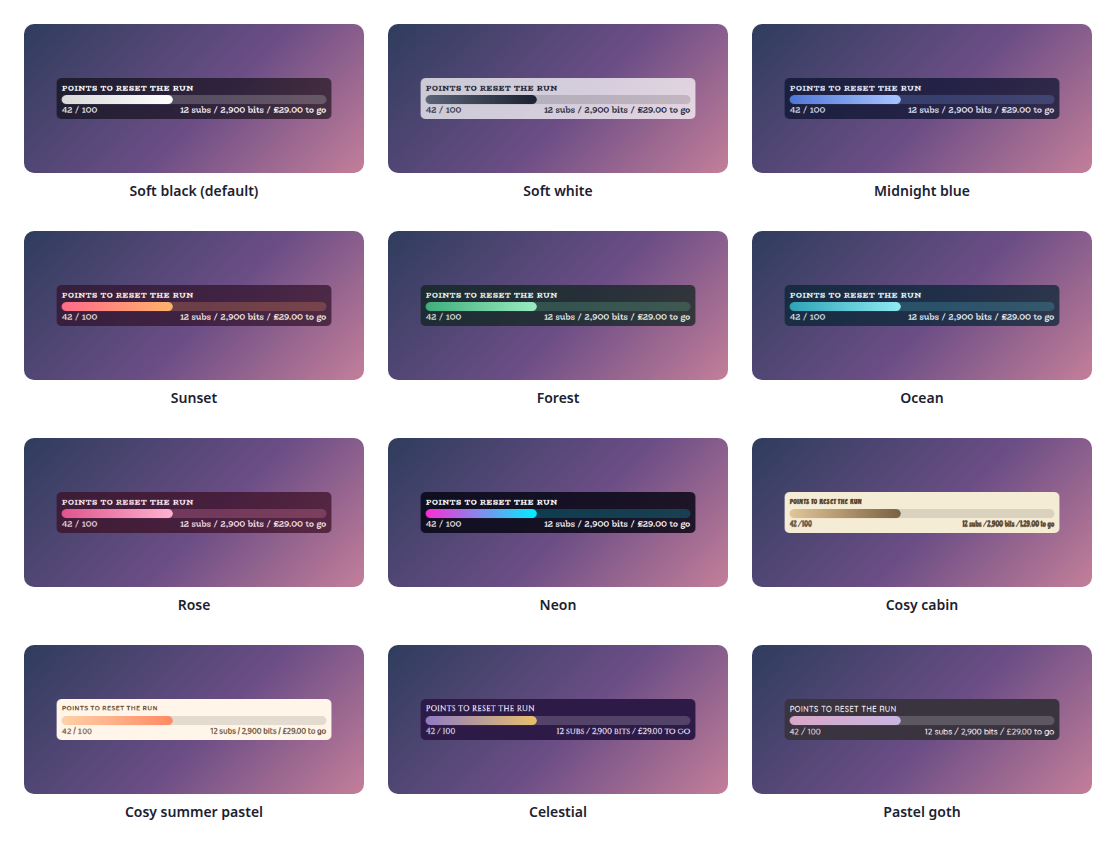
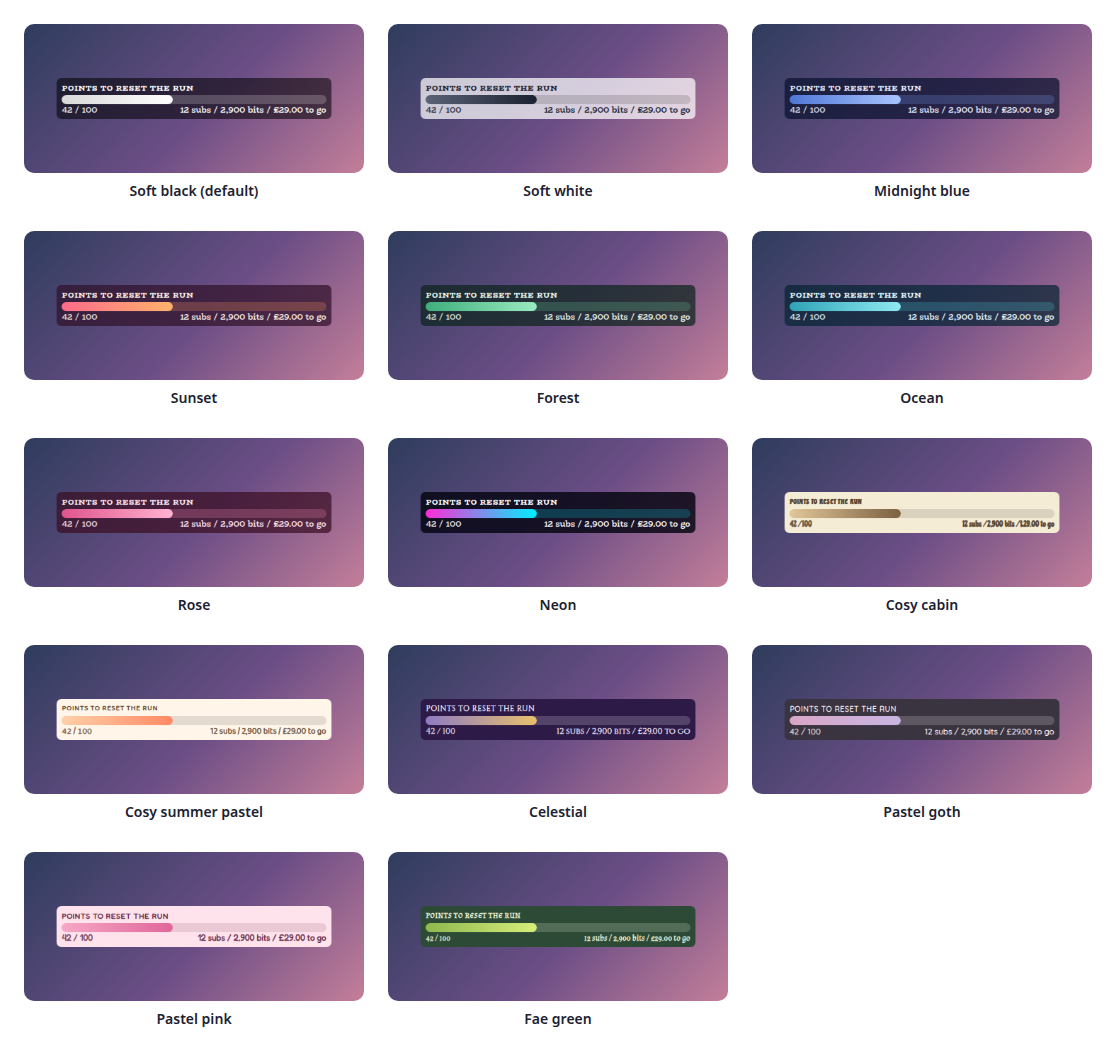
Add the Pastel pink and Fae green presets
Two more style presets join the shared set, so there are now fourteen. Pastel pink is a soft blush with rose, in Fredoka, whose rounded letters suit it, and Fae green is a mossy green with a firefly lime accent, in Almendra, a storybook serif. They are identical in every overlay in this set, the dropdown and the README gallery show all fourteen, and the test checks each against the shared palette.

diff --git a/test/test-widget.js b/test/test-widget.js
@@ -1865,11 +1865,11 @@ function ok(cond, msg) { if (cond) { pass++; console.log("  PASS " + msg); } els
   ok(unhandled.length === 0, "every button is handled (unhandled: " + unhandled.join(", ") + ")");
 
 
-  // ---- style presets: the same twelve, with the same colours, in every overlay
+  // ---- style presets: the same fourteen, with the same colours, in every overlay
   console.log("\n[style presets]");
-  const EXPECT = {"glass": {"text": "#FFFFFF", "accent": "#FFFFFF", "panel": "rgba(0, 0, 0, 0.55)", "font": "BioRhyme"}, "frost": {"text": "#1B2130", "accent": "#1B2130", "panel": "rgba(255, 255, 255, 0.72)", "font": "BioRhyme"}, "midnight": {"text": "#E8EEFF", "accent": "#7FA8FF", "panel": "rgba(10, 18, 46, 0.72)", "font": "BioRhyme"}, "sunset": {"text": "#FFF1E6", "accent": "#FF9A5A", "panel": "rgba(48, 18, 42, 0.72)", "font": "BioRhyme"}, "forest": {"text": "#EAF7EE", "accent": "#6FD6A0", "panel": "rgba(12, 36, 28, 0.72)", "font": "BioRhyme"}, "ocean": {"text": "#E6F8FF", "accent": "#4CD3E0", "panel": "rgba(6, 36, 50, 0.72)", "font": "BioRhyme"}, "rose": {"text": "#FFE9F1", "accent": "#FF8FB8", "panel": "rgba(58, 14, 34, 0.72)", "font": "BioRhyme"}, "neon": {"text": "#FFFFFF", "accent": "#00F0FF", "panel": "rgba(4, 4, 16, 0.82)", "font": "BioRhyme"}, "cosycabin": {"text": "#57442E", "accent": "#7C6142", "panel": "#F5ECD6", "font": "Chicle"}, "pastel": {"text": "#6B4F3A", "accent": "#FF8A65", "panel": "#FFF6E9", "font": "Baloo 2"}, "celestial": {"text": "#F3ECFF", "accent": "#E8C06B", "panel": "#2E1A47", "font": "Cinzel"}, "pastelgoth": {"text": "#F2E9F0", "accent": "#C8B6E2", "panel": "#3A3340", "font": "Quicksand"}};
-  const LABELS = {"glass": "Soft black (default)", "frost": "Soft white", "midnight": "Midnight blue", "sunset": "Sunset", "forest": "Forest", "ocean": "Ocean", "rose": "Rose", "neon": "Neon", "cosycabin": "Cosy cabin", "pastel": "Cosy summer pastel", "celestial": "Celestial", "pastelgoth": "Pastel goth", "custom": "Custom (use the colours below)"};
-  ok(JSON.stringify(Object.keys(fields.themePreset.options)) === JSON.stringify(Object.keys(LABELS)) && Object.keys(LABELS).length === 13, "the dropdown offers the twelve shared presets and Custom, in the shared order");
+  const EXPECT = {"glass": {"text": "#FFFFFF", "accent": "#FFFFFF", "panel": "rgba(0, 0, 0, 0.55)", "font": "BioRhyme"}, "frost": {"text": "#1B2130", "accent": "#1B2130", "panel": "rgba(255, 255, 255, 0.72)", "font": "BioRhyme"}, "midnight": {"text": "#E8EEFF", "accent": "#7FA8FF", "panel": "rgba(10, 18, 46, 0.72)", "font": "BioRhyme"}, "sunset": {"text": "#FFF1E6", "accent": "#FF9A5A", "panel": "rgba(48, 18, 42, 0.72)", "font": "BioRhyme"}, "forest": {"text": "#EAF7EE", "accent": "#6FD6A0", "panel": "rgba(12, 36, 28, 0.72)", "font": "BioRhyme"}, "ocean": {"text": "#E6F8FF", "accent": "#4CD3E0", "panel": "rgba(6, 36, 50, 0.72)", "font": "BioRhyme"}, "rose": {"text": "#FFE9F1", "accent": "#FF8FB8", "panel": "rgba(58, 14, 34, 0.72)", "font": "BioRhyme"}, "neon": {"text": "#FFFFFF", "accent": "#00F0FF", "panel": "rgba(4, 4, 16, 0.82)", "font": "BioRhyme"}, "cosycabin": {"text": "#57442E", "accent": "#7C6142", "panel": "#F5ECD6", "font": "Chicle"}, "pastel": {"text": "#6B4F3A", "accent": "#FF8A65", "panel": "#FFF6E9", "font": "Baloo 2"}, "celestial": {"text": "#F3ECFF", "accent": "#E8C06B", "panel": "#2E1A47", "font": "Cinzel"}, "pastelgoth": {"text": "#F2E9F0", "accent": "#C8B6E2", "panel": "#3A3340", "font": "Quicksand"}, "pastelpink": {"text": "#6A2E4B", "accent": "#D95C8A", "panel": "#FFE3EC", "font": "Fredoka"}, "faegreen": {"text": "#EEF5DA", "accent": "#C9E265", "panel": "#2C4A36", "font": "Almendra"}};
+  const LABELS = {"glass": "Soft black (default)", "frost": "Soft white", "midnight": "Midnight blue", "sunset": "Sunset", "forest": "Forest", "ocean": "Ocean", "rose": "Rose", "neon": "Neon", "cosycabin": "Cosy cabin", "pastel": "Cosy summer pastel", "celestial": "Celestial", "pastelgoth": "Pastel goth", "pastelpink": "Pastel pink", "faegreen": "Fae green", "custom": "Custom (use the colours below)"};
+  ok(JSON.stringify(Object.keys(fields.themePreset.options)) === JSON.stringify(Object.keys(LABELS)) && Object.keys(LABELS).length === 15, "the dropdown offers the fourteen shared presets and Custom, in the shared order");
   ok(Object.keys(LABELS).every(k => fields.themePreset.options[k] === LABELS[k]), "with the shared labels");
   ok(fields.themePreset.value === "glass", "and Soft black is the default");
   for (const key of Object.keys(EXPECT)) {

diff --git a/widget/widget.js b/widget/widget.js
@@ -27,7 +27,7 @@
      later why the bar went backwards. */
   var INSTANCE = Math.random().toString(36).slice(2, 10);
 
-  /* Style presets. The same twelve, with the same colours, in every overlay in this
+  /* Style presets. The same fourteen, with the same colours, in every overlay in this
      set, generated from one table so they cannot drift apart, so any preset looks
      like one family across a whole stream. The default, Soft black, is a see-through
      black panel with white text. */
@@ -91,6 +91,16 @@
       bg: "#3A3340", text: "#F2E9F0", accent: "#C8B6E2", font: "Quicksand",
       fillFrom: "#D9A7C7", fillTo: "#C8B6E2", alarm: "#C96A8E",
       parts: {"title": "#F2E9F0", "timer": "#F2E9F0", "readout": "#F2E9F0", "note": "#F2E9F0", "border": "#C8B6E2", "track": "rgba(255, 255, 255, 0.18)", "lock": "#C8B6E2", "lockHole": "#3A3340", "float": "#F2E9F0", "floatBg": "#3A3340", "alert": "#FFFFFF", "alertFill": "#FFFFFF", "alertTrack": "rgba(0, 0, 0, 0.22)"}
+    },
+    pastelpink: {
+      bg: "#FFE3EC", text: "#6A2E4B", accent: "#D95C8A", font: "Fredoka",
+      fillFrom: "#F7A8C6", fillTo: "#E0679A", alarm: "#D6456F",
+      parts: {"title": "#6A2E4B", "timer": "#6A2E4B", "readout": "#6A2E4B", "note": "#6A2E4B", "border": "#D95C8A", "track": "rgba(106, 46, 75, 0.14)", "lock": "#D95C8A", "lockHole": "#FFE3EC", "float": "#6A2E4B", "floatBg": "#FFE3EC", "alert": "#FFFFFF", "alertFill": "#FFFFFF", "alertTrack": "rgba(0, 0, 0, 0.22)"}
+    },
+    faegreen: {
+      bg: "#2C4A36", text: "#EEF5DA", accent: "#C9E265", font: "Almendra",
+      fillFrom: "#8FB84E", fillTo: "#D7EE7A", alarm: "#E0805A",
+      parts: {"title": "#EEF5DA", "timer": "#EEF5DA", "readout": "#EEF5DA", "note": "#EEF5DA", "border": "#C9E265", "track": "rgba(238, 245, 218, 0.2)", "lock": "#C9E265", "lockHole": "#2C4A36", "float": "#EEF5DA", "floatBg": "#2C4A36", "alert": "#FFFFFF", "alertFill": "#FFFFFF", "alertTrack": "rgba(0, 0, 0, 0.22)"}
     }
   };
   var BASE = PRESETS.glass;

diff --git a/dev/harness.js b/dev/harness.js
@@ -90,7 +90,7 @@
     var def = fieldDefs.themePreset;
     host.innerHTML =
       (def ? '<div class="row"><label for="look-preset">Style preset</label> <select id="look-preset"></select></div>' +
-        '<p class="hint">The same twelve presets are in every overlay in this set. Custom uses the colour settings below.</p>' : '') +
+        '<p class="hint">The same fourteen presets are in every overlay in this set. Custom uses the colour settings below.</p>' : '') +
       '<div class="row"><button id="export-download" class="go">Download fields.json</button>' +
       '<button id="export-copy" class="alt">Copy fields.json</button></div>' +
       '<p class="hint">Your current settings as a fields.json for StreamElements. Paste it into the Fields tab of a new custom widget and it starts out as you see it here.</p>' +

diff --git a/README.md b/README.md
@@ -37,9 +37,9 @@ It is one self-contained widget in plain JavaScript, with no dependencies and no
 
 ## Style presets
 
-One setting picks the look. The same twelve presets, with the same colours, are in every overlay in this set, so overlays from this set match whichever you choose. This is how each one looks in this overlay.
+One setting picks the look. The same fourteen presets, with the same colours, are in every overlay in this set, so overlays from this set match whichever you choose. This is how each one looks in this overlay.
 
-<p><img src="docs/presets.png" alt="A grid of this overlay in each of the twelve style presets: Soft black, Soft white, Midnight blue, Sunset, Forest, Ocean, Rose, Neon, Cosy cabin, Cosy summer pastel, Celestial and Pastel goth" width="760"></p>
+<p><img src="docs/presets.png" alt="A grid of this overlay in each of the fourteen style presets: Soft black, Soft white, Midnight blue, Sunset, Forest, Ocean, Rose, Neon, Cosy cabin, Cosy summer pastel, Celestial, Pastel goth, Pastel pink and Fae green" width="760"></p>
 
 | Preset | Look |
 | --- | --- |
@@ -55,6 +55,8 @@ One setting picks the look. The same twelve presets, with the same colours, are 
 | Cosy summer pastel | Warm cream and coral, in Baloo 2. |
 | Celestial | Deep purple and gold, in Cinzel. |
 | Pastel goth | Charcoal and lilac, in Quicksand. |
+| Pastel pink | Soft blush pink with rose, in Fredoka. |
+| Fae green | Mossy green with a firefly lime accent, in Almendra. |
 
 Choose **Custom** to use the colour pickers and font instead. They are ignored while a preset is chosen.
 
@@ -214,7 +216,7 @@ Every setting has a plain label in StreamElements, grouped as follows.
 | Wording | Every word in the line under the bar, the readouts and the floating text. |
 | Card | Corner roundness, padding, spacing, tilt, an outline, shadows, the tail and the bar's thickness. |
 | Text | The size and boldness of the heading, countdown, readout, line and floating text. |
-| Theme | One of the twelve shared style presets (Soft black by default) or Custom colours and font, with a colour for every part. |
+| Theme | One of the fourteen shared style presets (Soft black by default) or Custom colours and font, with a colour for every part. |
 | Animation | One switch for all animation, and how long the fill, swell, floating text, glow, save window pulse and shake take. |
 | Sounds | A sound and volume for a contribution, a lock, a lock breaking, the bar filling, a save and a reset, plus a master mute. |
 | Manual controls | Buttons to fill, lock, unlock, save, switch on and off, reset and test each sound. |
@@ -291,7 +293,7 @@ The widget uses the StreamElements events `onWidgetLoad`, `onEventReceived` (`su
 
 ## Related overlays
 
-These overlays share the same default look and the same twelve style presets, so they sit together on one stream.
+These overlays share the same default look and the same fourteen style presets, so they sit together on one stream.
 
 - [Sub Goals Overlay](https://github.com/jordan-lee-code/sub-goals-overlay): sub and bits goals that fill as chat reaches them.
 - [Subathon Overlay](https://github.com/jordan-lee-code/subathon-overlay): a subathon clock with a cap, power-ups and sub goals.

diff --git a/CONTRIBUTING.md b/CONTRIBUTING.md
@@ -22,7 +22,7 @@ The dev harness stands in for StreamElements, so you can try changes without goi
 4. When you add a setting, add it to `widget/fields.json` and read it in `widget/widget.js`.
 5. Add or update tests in `test/`, and make sure `npm test` passes.
 6. If behaviour changes, update the README.
-7. The twelve style presets are shared by every overlay in this set, with identical colours, so they look cohesive on one stream. They live in the `PRESETS` table in `widget/widget.js`, and a test checks each against the shared values. If you change a palette, make the same change in the other overlays and regenerate the gallery in `docs/presets.png`.
+7. The fourteen style presets are shared by every overlay in this set, with identical colours, so they look cohesive on one stream. They live in the `PRESETS` table in `widget/widget.js`, and a test checks each against the shared values. If you change a palette, make the same change in the other overlays and regenerate the gallery in `docs/presets.png`.
 
 ## Reporting a bug
 
